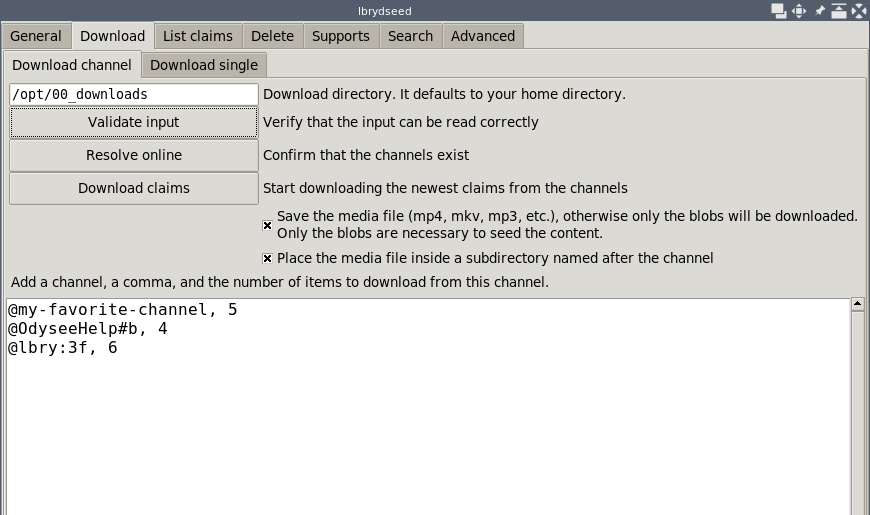
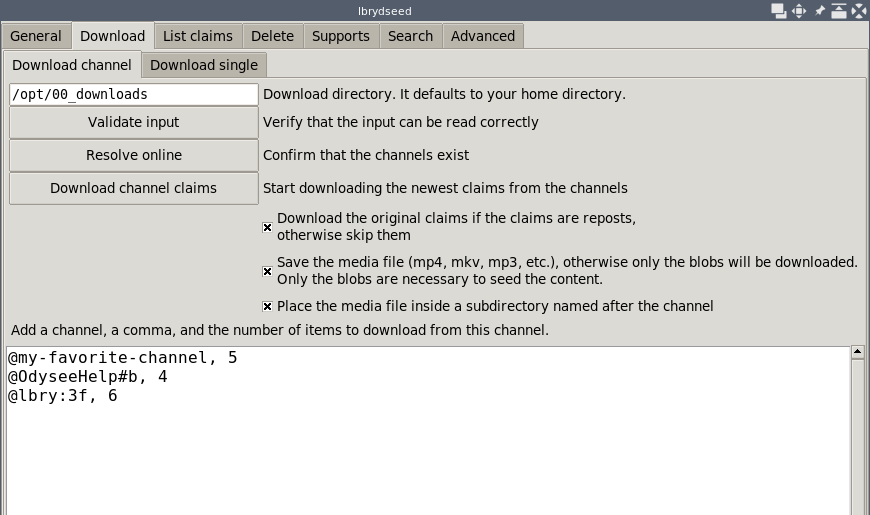
README.md: update the documentation with new images
The new images correspond to `DownloadChPage` and `DownloadSinglePage`
with the new checkbox to choose whether to resolve and download reposts
or skip them.

Changed region(s): [[0.0, 0.4971, 1.0, 0.7767], [0.3103, 0.4039, 0.9931, 0.466], [0.0621, 0.3417, 0.2483, 0.3728]]

diff --git a/lbseed/pages_base.py b/lbseed/pages_base.py
@@ -103,7 +103,7 @@ class DownloadChPage:
 
         blocks.setup_button_gen(parent,
                                 width=self.b_width,
-                                b_text="Download claims",
+                                b_text="Download channel claims",
                                 b_command=self.download_ch,
                                 l_text=("Start downloading the newest claims "
                                         "from the channels"),

diff --git a/README.md b/README.md
@@ -185,7 +185,7 @@ python dseed.py
 ```
 
 Enter the name of the channels, and a number of claims to download for each,
-then press `"Download claims"`.
+then press `"Download channel claims"`.
 
 ![lbryseed_download_channel](./img/g_lbrydseed_download_channel.png)
 
